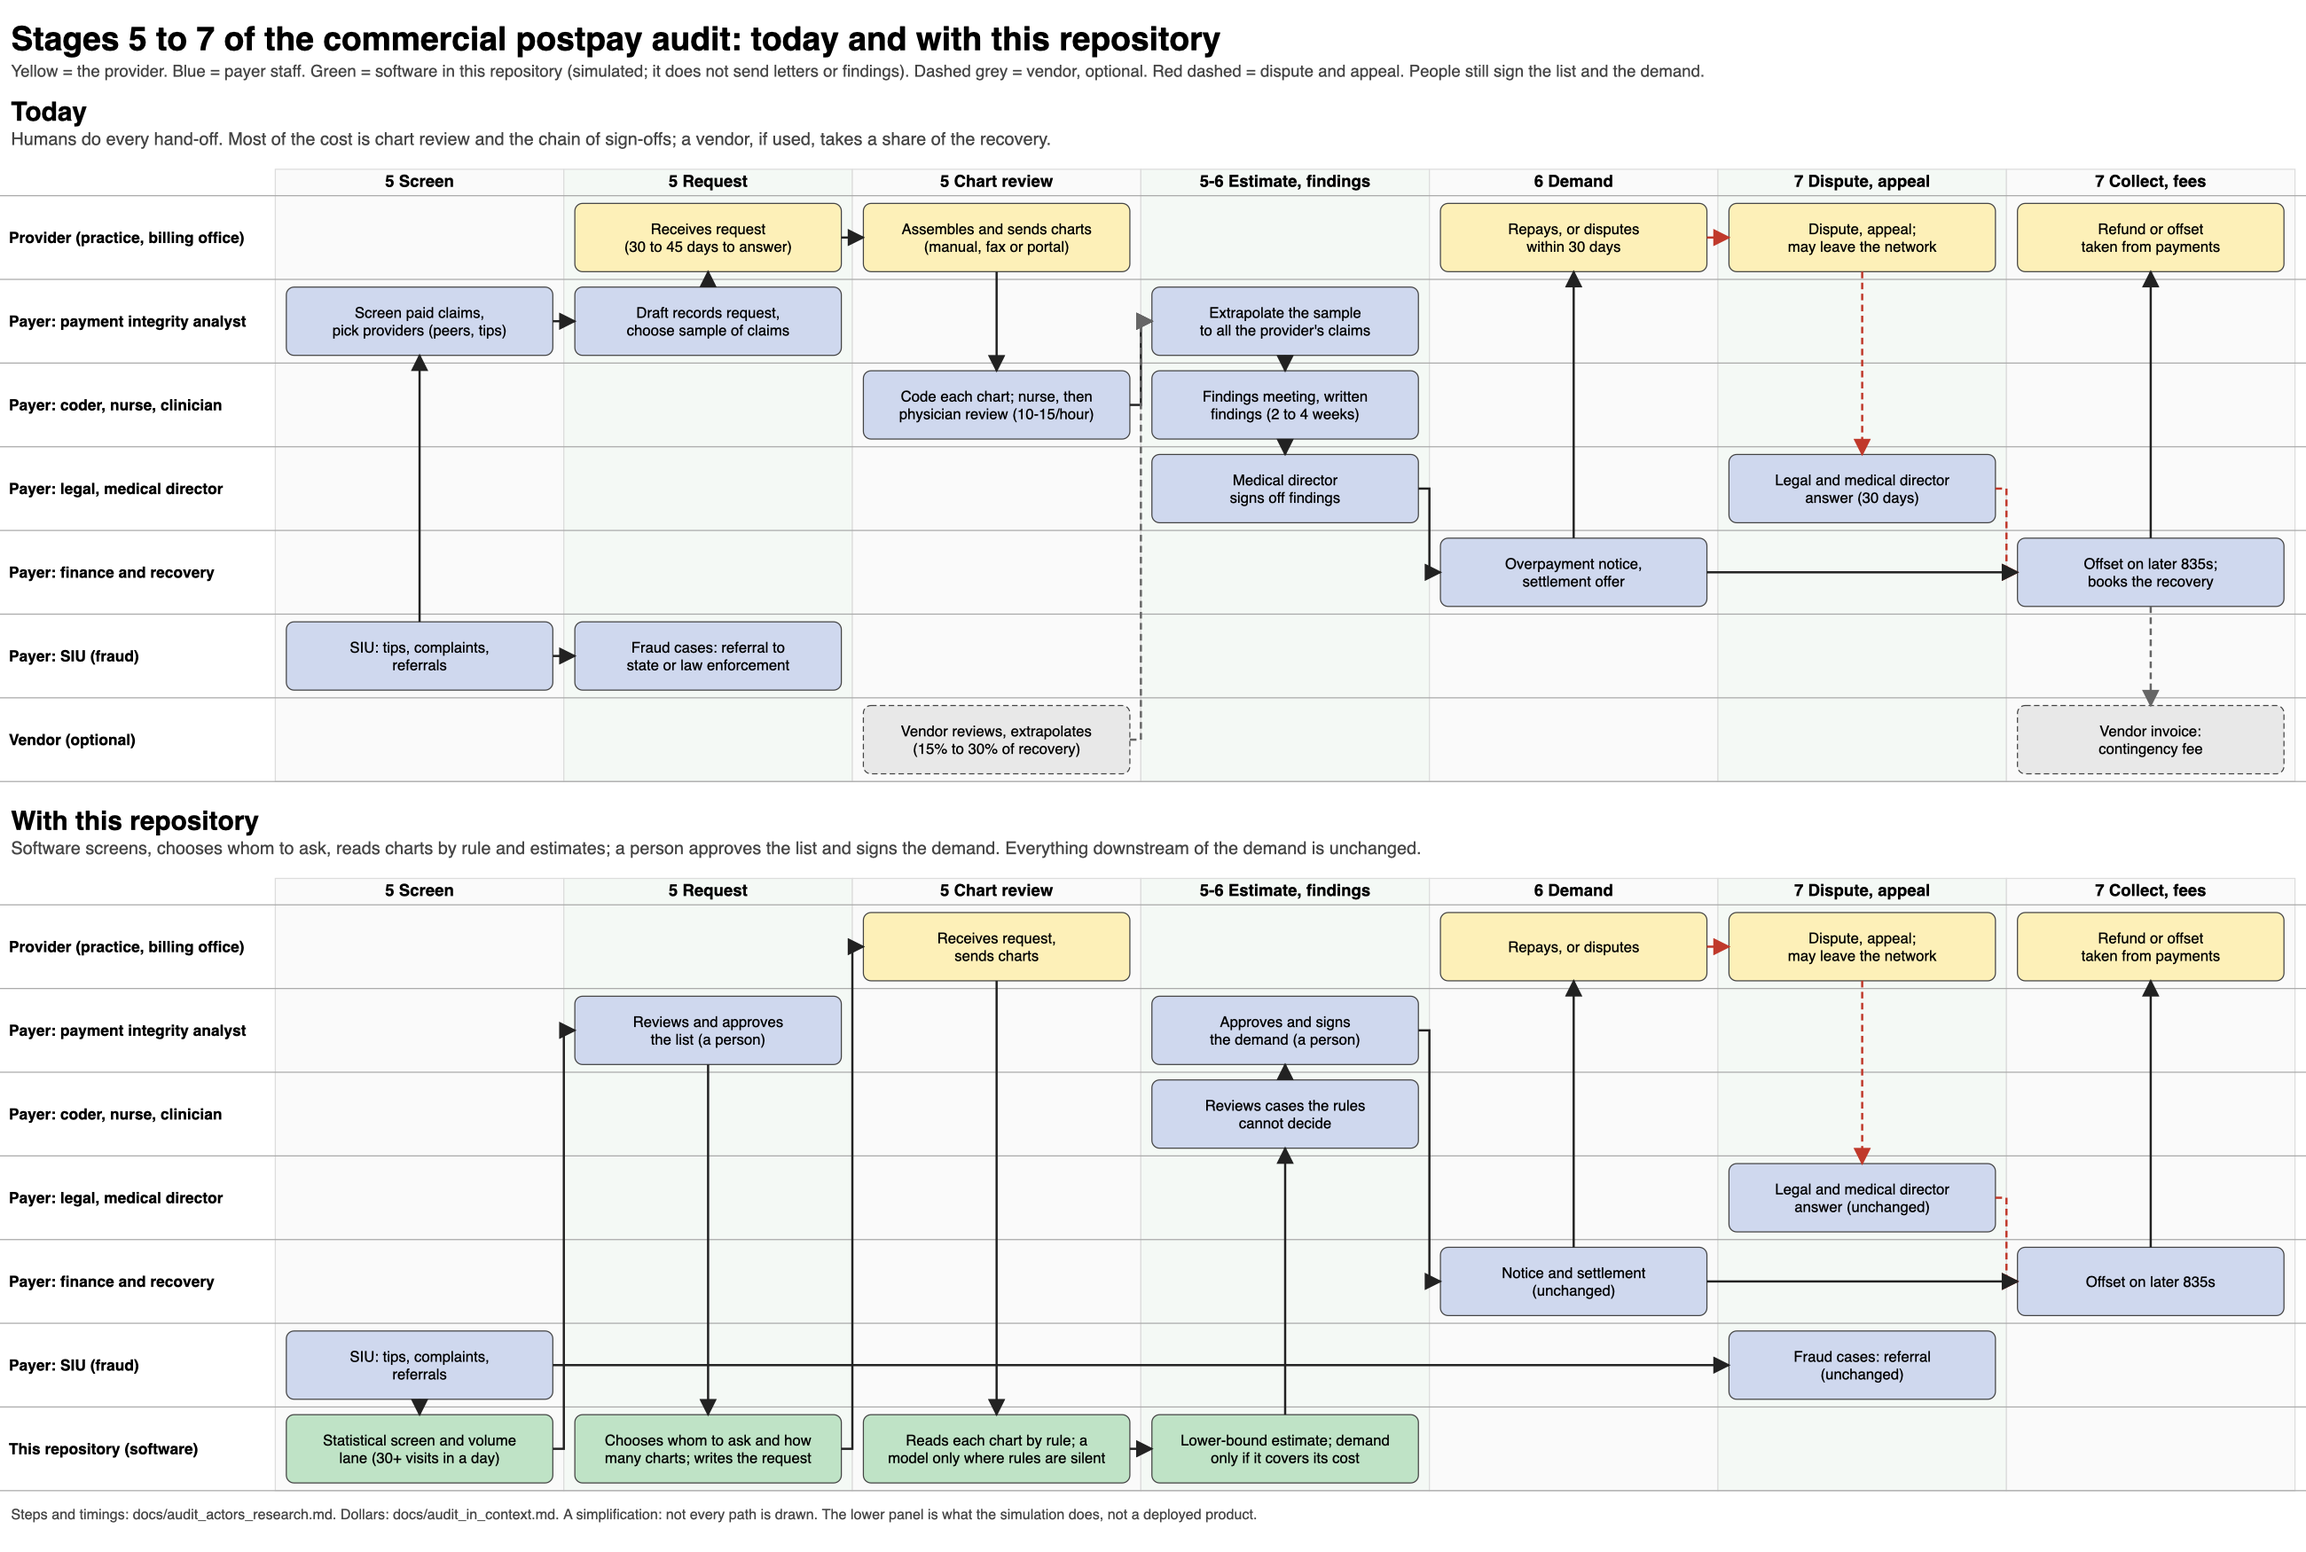
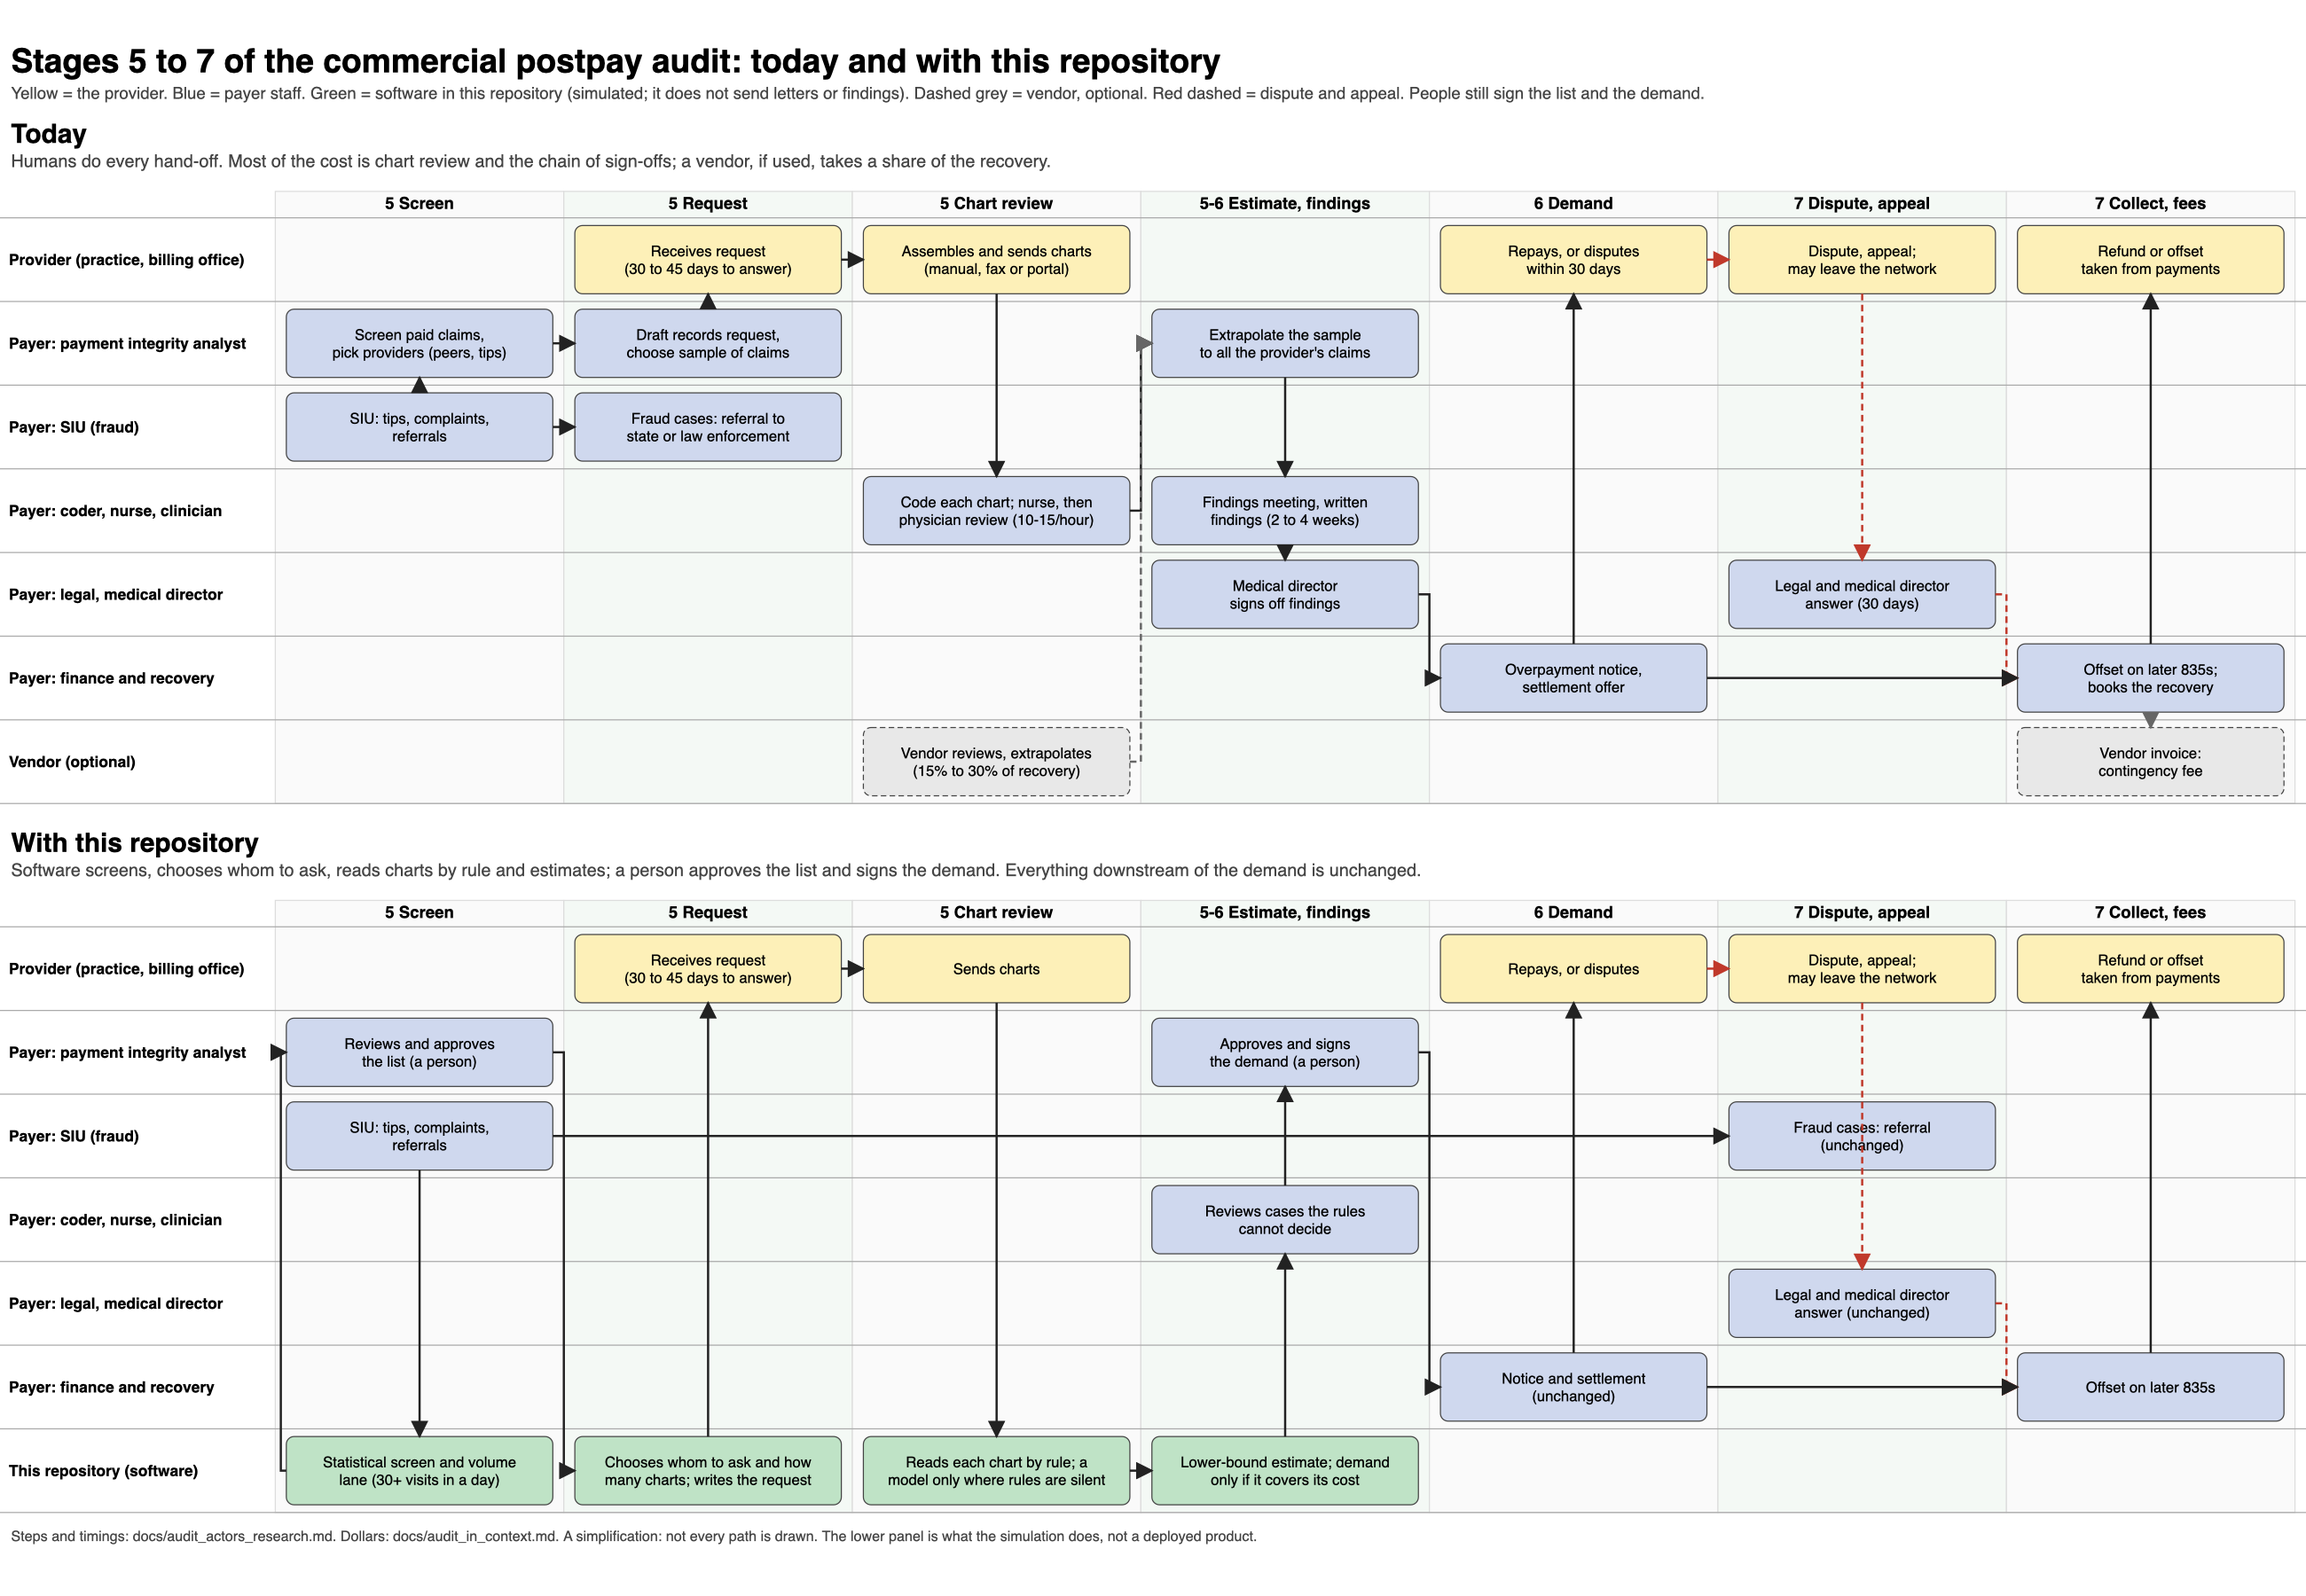
Zoom diagram: provider receives the request in both panels; SIU lane next to the analyst

diff --git a/docs/make_audit_zoom.py b/docs/make_audit_zoom.py
@@ -6,7 +6,7 @@ CW = 262
 BH = 62
 LH = 76
 NCOL = 7
-LANES = ["Provider (practice, billing office)", "Payer: payment integrity analyst", "Payer: coder, nurse, clinician", "Payer: legal, medical director", "Payer: finance and recovery", "Payer: SIU (fraud)", None]
+LANES = ["Provider (practice, billing office)", "Payer: payment integrity analyst", "Payer: SIU (fraud)", "Payer: coder, nurse, clinician", "Payer: legal, medical director", "Payer: finance and recovery", None]
 COLS = ["5 Screen", "5 Request", "5 Chart review", "5-6 Estimate, findings", "6 Demand", "7 Dispute, appeal", "7 Collect, fees"]
 G, Y, B, R = "#bfe3c6", "#fdf0b8", "#cfd8ee", "#e8e8e8"
 
@@ -35,12 +35,17 @@ def panel(title, sub, last_lane, boxes, arrows, y0, o):
         y1 = y + BH / 2 - (len(lines) - 1) * 8 + 5
         for n, t in enumerate(lines):
             o.append(f'<text x="{x + (CW - 20) / 2}" y="{y1 + n * 16}" text-anchor="middle" font-size="13.5">{t}</text>')
-    for a, b, kind in arrows:
+    for arrow in arrows:
+        a, b, kind = arrow[:3]
+        left = len(arrow) > 3
         xa, ya, wa, ha = pos[a]
         xb, yb, wb, hb = pos[b]
         col = {"main": "#222", "dash": "#666", "red": "#c0392b"}[kind]
         dash = ' stroke-dasharray="6 4"' if kind != "main" else ""
-        if abs(xa - xb) < 5:                                           # same column: vertical
+        if left:                                                       # same column, routed through the gap on the left of the column
+            xg = xa - 5
+            d = f"M{xa},{ya + ha / 2} L{xg},{ya + ha / 2} L{xg},{yb + hb / 2} L{xb},{yb + hb / 2}"
+        elif abs(xa - xb) < 5:                                           # same column: vertical
             y_s, y_e = (ya + ha, yb) if yb > ya else (ya, yb + hb)
             d = f"M{xa + wa / 2},{y_s} L{xb + wb / 2},{y_e}"
         else:
@@ -59,22 +64,22 @@ def main():
     o.append('<text x="10" y="30" font-size="30" font-weight="bold">Stages 5 to 7 of the commercial postpay audit: today and with this repository</text>')
     o.append('<text x="10" y="54" fill="#444" font-size="15">Yellow = the provider. Blue = payer staff. Green = software in this repository (simulated; it does not send letters or findings). Dashed grey = vendor, optional. Red dashed = dispute and appeal. People still sign the list and the demand.</text>')
     today = {
-        "t_sig": (5, 0, "SIU: tips, complaints,|referrals", B, False),
-        "t_fraud": (5, 1, "Fraud cases: referral to|state or law enforcement", B, False),
+        "t_sig": (2, 0, "SIU: tips, complaints,|referrals", B, False),
+        "t_fraud": (2, 1, "Fraud cases: referral to|state or law enforcement", B, False),
         "t_scr": (1, 0, "Screen paid claims,|pick providers (peers, tips)", B, False),
         "t_req": (1, 1, "Draft records request,|choose sample of claims", B, False),
         "t_pr1": (0, 1, "Receives request|(30 to 45 days to answer)", Y, False),
         "t_pr2": (0, 2, "Assembles and sends charts|(manual, fax or portal)", Y, False),
-        "t_cod": (2, 2, "Code each chart; nurse, then|physician review (10-15/hour)", B, False),
+        "t_cod": (3, 2, "Code each chart; nurse, then|physician review (10-15/hour)", B, False),
         "t_ven3": (6, 2, "Vendor reviews, extrapolates|(15% to 30% of recovery)", R, True),
         "t_est": (1, 3, "Extrapolate the sample|to all the provider's claims", B, False),
-        "t_meet": (2, 3, "Findings meeting, written|findings (2 to 4 weeks)", B, False),
-        "t_md": (3, 3, "Medical director|signs off findings", B, False),
-        "t_not": (4, 4, "Overpayment notice,|settlement offer", B, False),
+        "t_meet": (3, 3, "Findings meeting, written|findings (2 to 4 weeks)", B, False),
+        "t_md": (4, 3, "Medical director|signs off findings", B, False),
+        "t_not": (5, 4, "Overpayment notice,|settlement offer", B, False),
         "t_prd": (0, 4, "Repays, or disputes|within 30 days", Y, False),
         "t_dis": (0, 5, "Dispute, appeal;|may leave the network", Y, False),
-        "t_leg": (3, 5, "Legal and medical director|answer (30 days)", B, False),
-        "t_off": (4, 6, "Offset on later 835s;|books the recovery", B, False),
+        "t_leg": (4, 5, "Legal and medical director|answer (30 days)", B, False),
+        "t_off": (5, 6, "Offset on later 835s;|books the recovery", B, False),
         "t_ref": (0, 6, "Refund or offset|taken from payments", Y, False),
         "t_inv": (6, 6, "Vendor invoice:|contingency fee", R, True),
     }
@@ -83,24 +88,25 @@ def main():
                 ("t_leg", "t_off", "red"), ("t_not", "t_off", "main"), ("t_off", "t_ref", "main"), ("t_off", "t_inv", "dash")]
     y = panel("Today", "Humans do every hand-off. Most of the cost is chart review and the chain of sign-offs; a vendor, if used, takes a share of the recovery.", "Vendor (optional)", today, t_arrows, 70, o)
     proj = {
-        "p_sig": (5, 0, "SIU: tips, complaints,|referrals", B, False),
-        "p_fraud": (5, 5, "Fraud cases: referral|(unchanged)", B, False),
+        "p_sig": (2, 0, "SIU: tips, complaints,|referrals", B, False),
+        "p_fraud": (2, 5, "Fraud cases: referral|(unchanged)", B, False),
         "p_scr": (6, 0, "Statistical screen and volume|lane (30+ visits in a day)", G, False),
-        "p_list": (1, 1, "Reviews and approves|the list (a person)", B, False),
+        "p_list": (1, 0, "Reviews and approves|the list (a person)", B, False),
         "p_req": (6, 1, "Chooses whom to ask and how|many charts; writes the request", G, False),
-        "p_pr": (0, 2, "Receives request,|sends charts", Y, False),
+        "p_pr1": (0, 1, "Receives request|(30 to 45 days to answer)", Y, False),
+        "p_pr2": (0, 2, "Sends charts", Y, False),
         "p_rd": (6, 2, "Reads each chart by rule; a|model only where rules are silent", G, False),
         "p_est": (6, 3, "Lower-bound estimate; demand|only if it covers its cost", G, False),
-        "p_chk": (2, 3, "Reviews cases the rules|cannot decide", B, False),
+        "p_chk": (3, 3, "Reviews cases the rules|cannot decide", B, False),
         "p_pkt": (1, 3, "Approves and signs|the demand (a person)", B, False),
-        "p_not": (4, 4, "Notice and settlement|(unchanged)", B, False),
+        "p_not": (5, 4, "Notice and settlement|(unchanged)", B, False),
         "p_prd": (0, 4, "Repays, or disputes", Y, False),
         "p_dis": (0, 5, "Dispute, appeal;|may leave the network", Y, False),
-        "p_leg": (3, 5, "Legal and medical director|answer (unchanged)", B, False),
-        "p_off": (4, 6, "Offset on later 835s", B, False),
+        "p_leg": (4, 5, "Legal and medical director|answer (unchanged)", B, False),
+        "p_off": (5, 6, "Offset on later 835s", B, False),
         "p_ref": (0, 6, "Refund or offset|taken from payments", Y, False),
     }
-    p_arrows = [("p_sig", "p_scr", "main"), ("p_sig", "p_fraud", "main"), ("p_scr", "p_list", "main"), ("p_list", "p_req", "main"), ("p_req", "p_pr", "main"), ("p_pr", "p_rd", "main"), ("p_rd", "p_est", "main"),
+    p_arrows = [("p_sig", "p_scr", "main"), ("p_sig", "p_fraud", "main"), ("p_scr", "p_list", "main", "L"), ("p_list", "p_req", "main"), ("p_req", "p_pr1", "main"), ("p_pr1", "p_pr2", "main"), ("p_pr2", "p_rd", "main"), ("p_rd", "p_est", "main"),
                 ("p_est", "p_chk", "main"), ("p_chk", "p_pkt", "main"), ("p_pkt", "p_not", "main"), ("p_not", "p_prd", "main"), ("p_prd", "p_dis", "red"), ("p_dis", "p_leg", "red"), ("p_leg", "p_off", "red"),
                 ("p_not", "p_off", "main"), ("p_off", "p_ref", "main")]
     y2 = panel("With this repository", "Software screens, chooses whom to ask, reads charts by rule and estimates; a person approves the list and signs the demand. Everything downstream of the demand is unchanged.", "This repository (software)", proj, p_arrows, y + 20, o)
